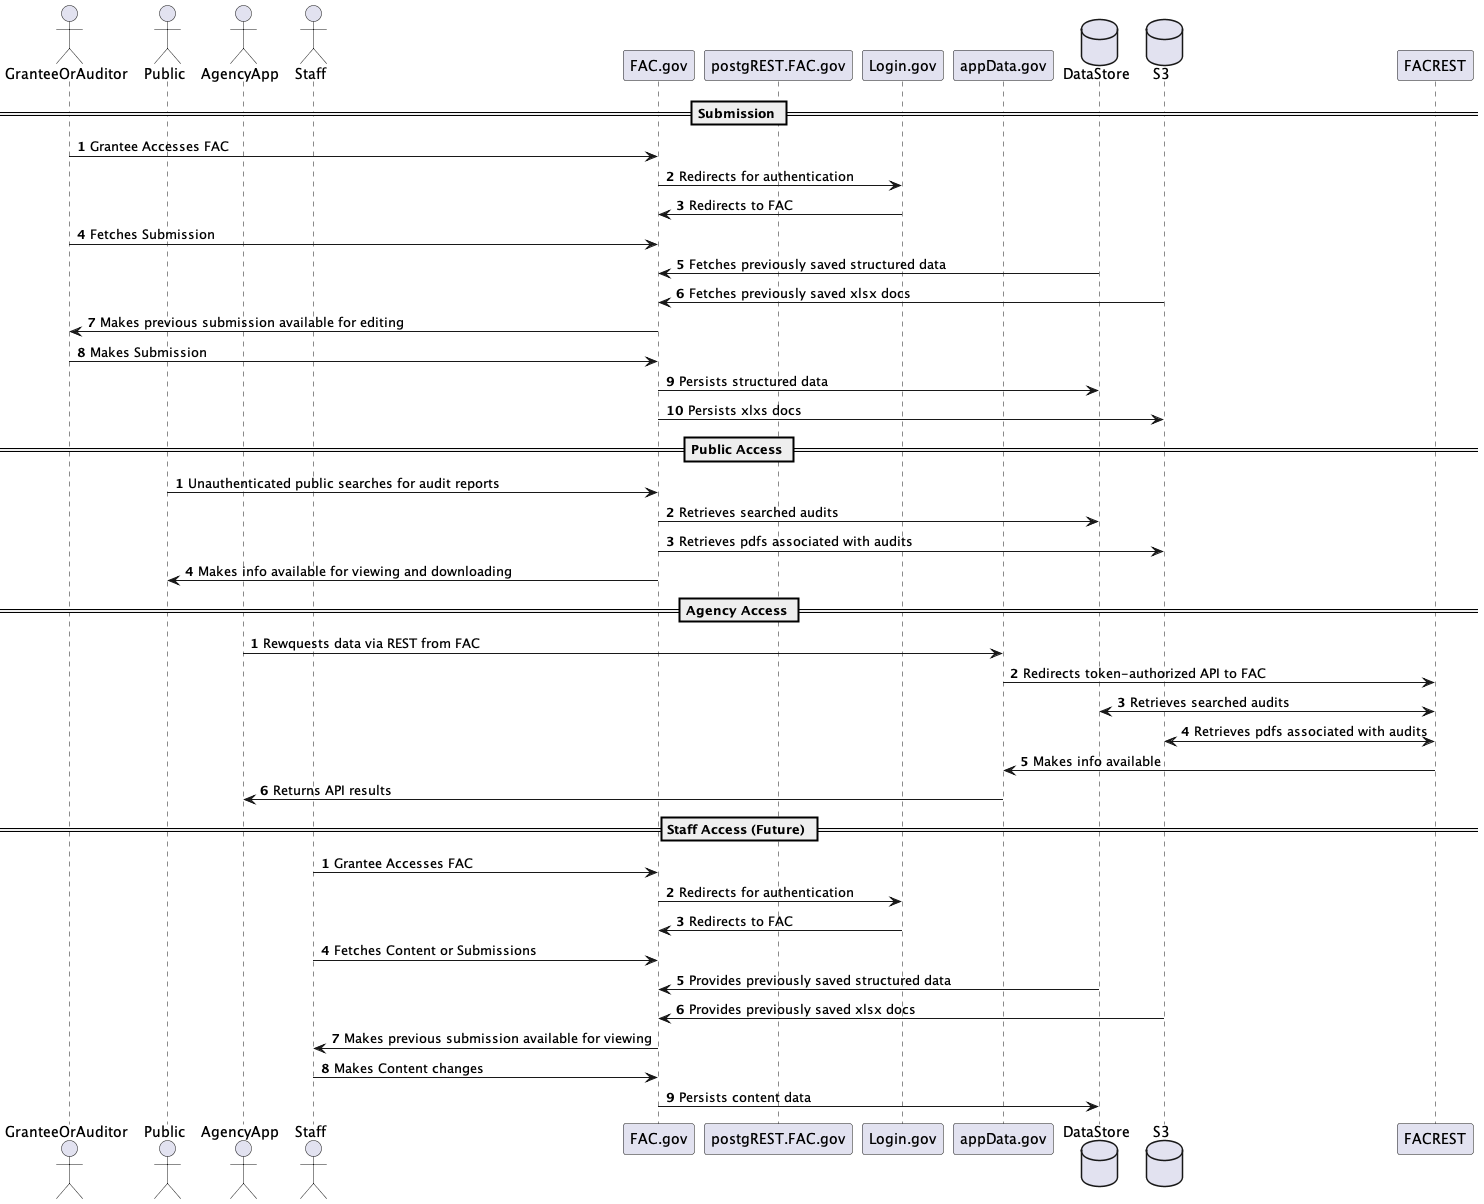
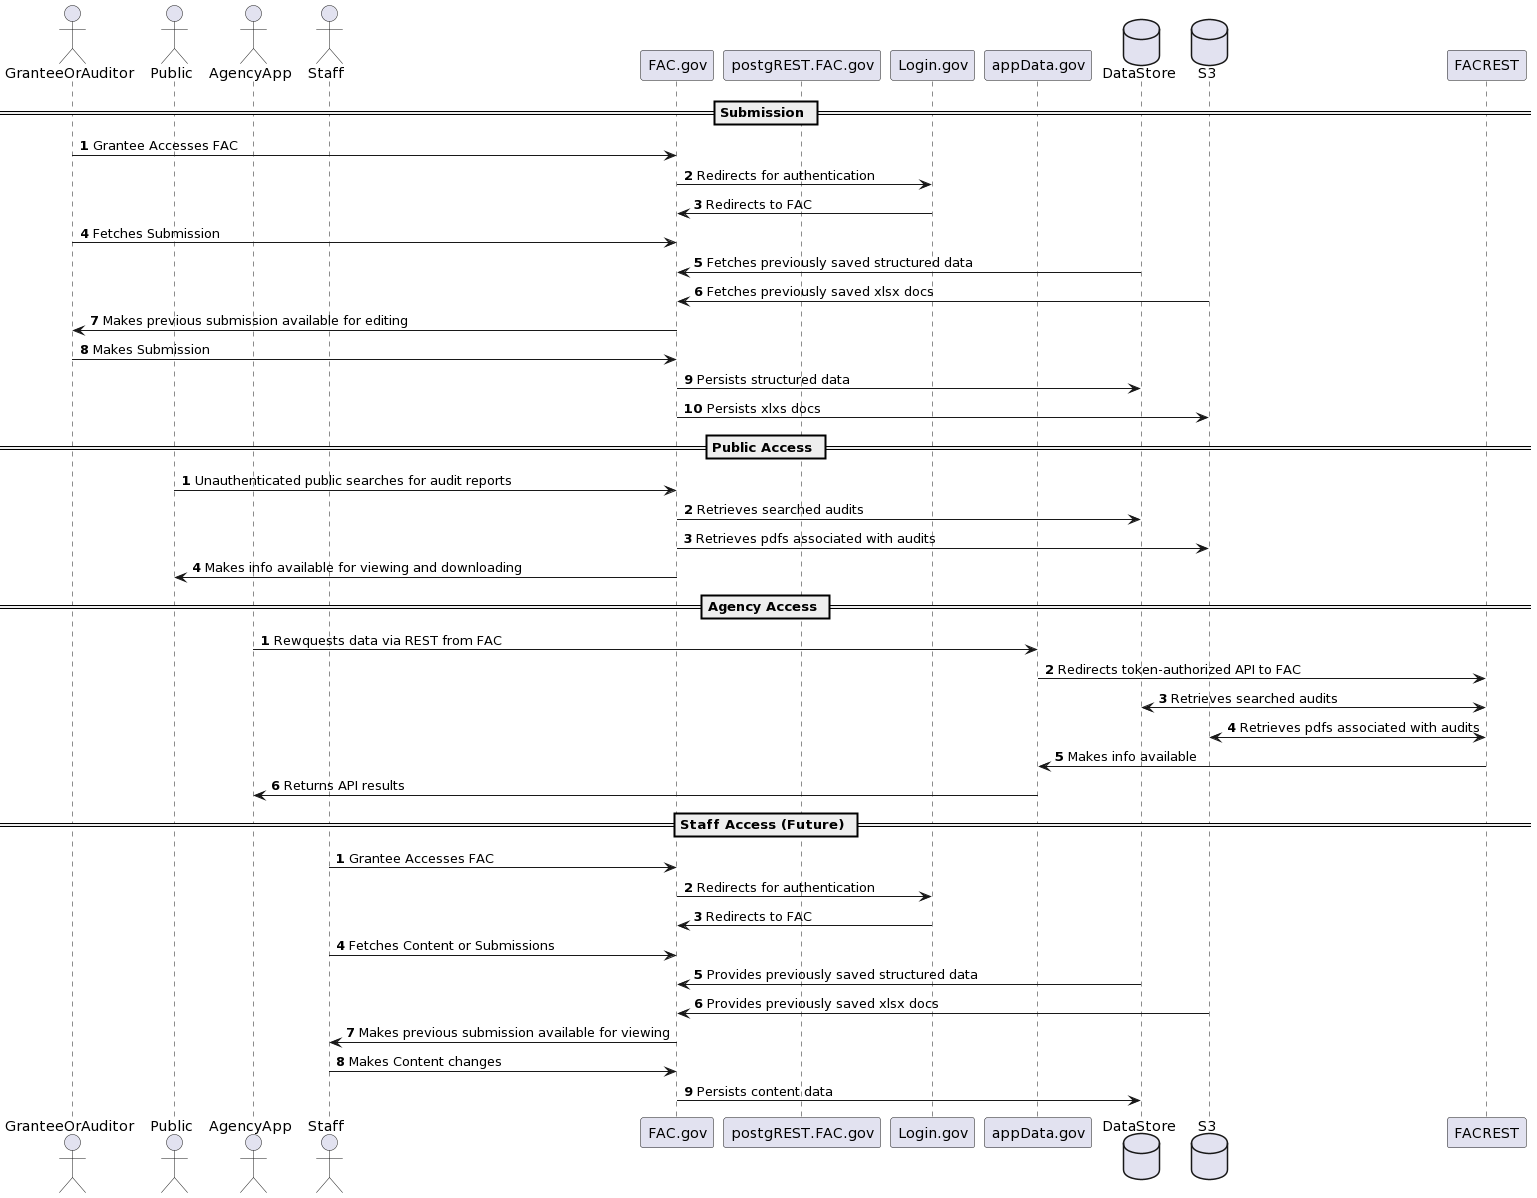
Use md files instead of punl files

diff --git a/docs/architecture/diagrams/Application/fac_system_context_unified.md b/docs/architecture/diagrams/Application/fac_system_context_unified.md
@@ -1,3 +1,6 @@
+FAC System Cloud boundary view
+![FAC.gov  Cloud ATO boundary view]
+```plantuml
 @startuml Context Diagram
 !include https://raw.githubusercontent.com/plantuml-stdlib/C4-PlantUML/master/C4_Container.puml
 
@@ -5,6 +8,10 @@ Person(User, "User", "GranteeOrAuditor")
 Person(Public, "User", "Public")
 Person(Staff, "User", "FAC Staff")
 Person(AgencyApp, "App", "Agency App")
+
+note as EncryptionNote
+All connections depicted are encrypted with TLS 1.2 unless otherwise noted.
+end note
 
 
 Boundary(cloudgov, "Cloud.gov Boundary") {
@@ -60,3 +67,4 @@ Rel(django, db, "read/write")
 Rel(backend, s3, "Stores single audit packages/Excel files")
 
 @enduml
+```

diff --git a/docs/architecture/diagrams/Application/FAC_Sequence.md b/docs/architecture/diagrams/Application/FAC_Sequence.md
@@ -1,3 +1,6 @@
+FAC System User Interaction view
+![FAC.gov  User Interaction view]
+```plantuml
 @startuml User Interaction Diagram
 Actor GranteeOrAuditor
 Actor Public
@@ -55,3 +58,4 @@ Staff -> FAC : Makes Content changes
 FAC -> DB : Persists content data
 
 @enduml
+```
